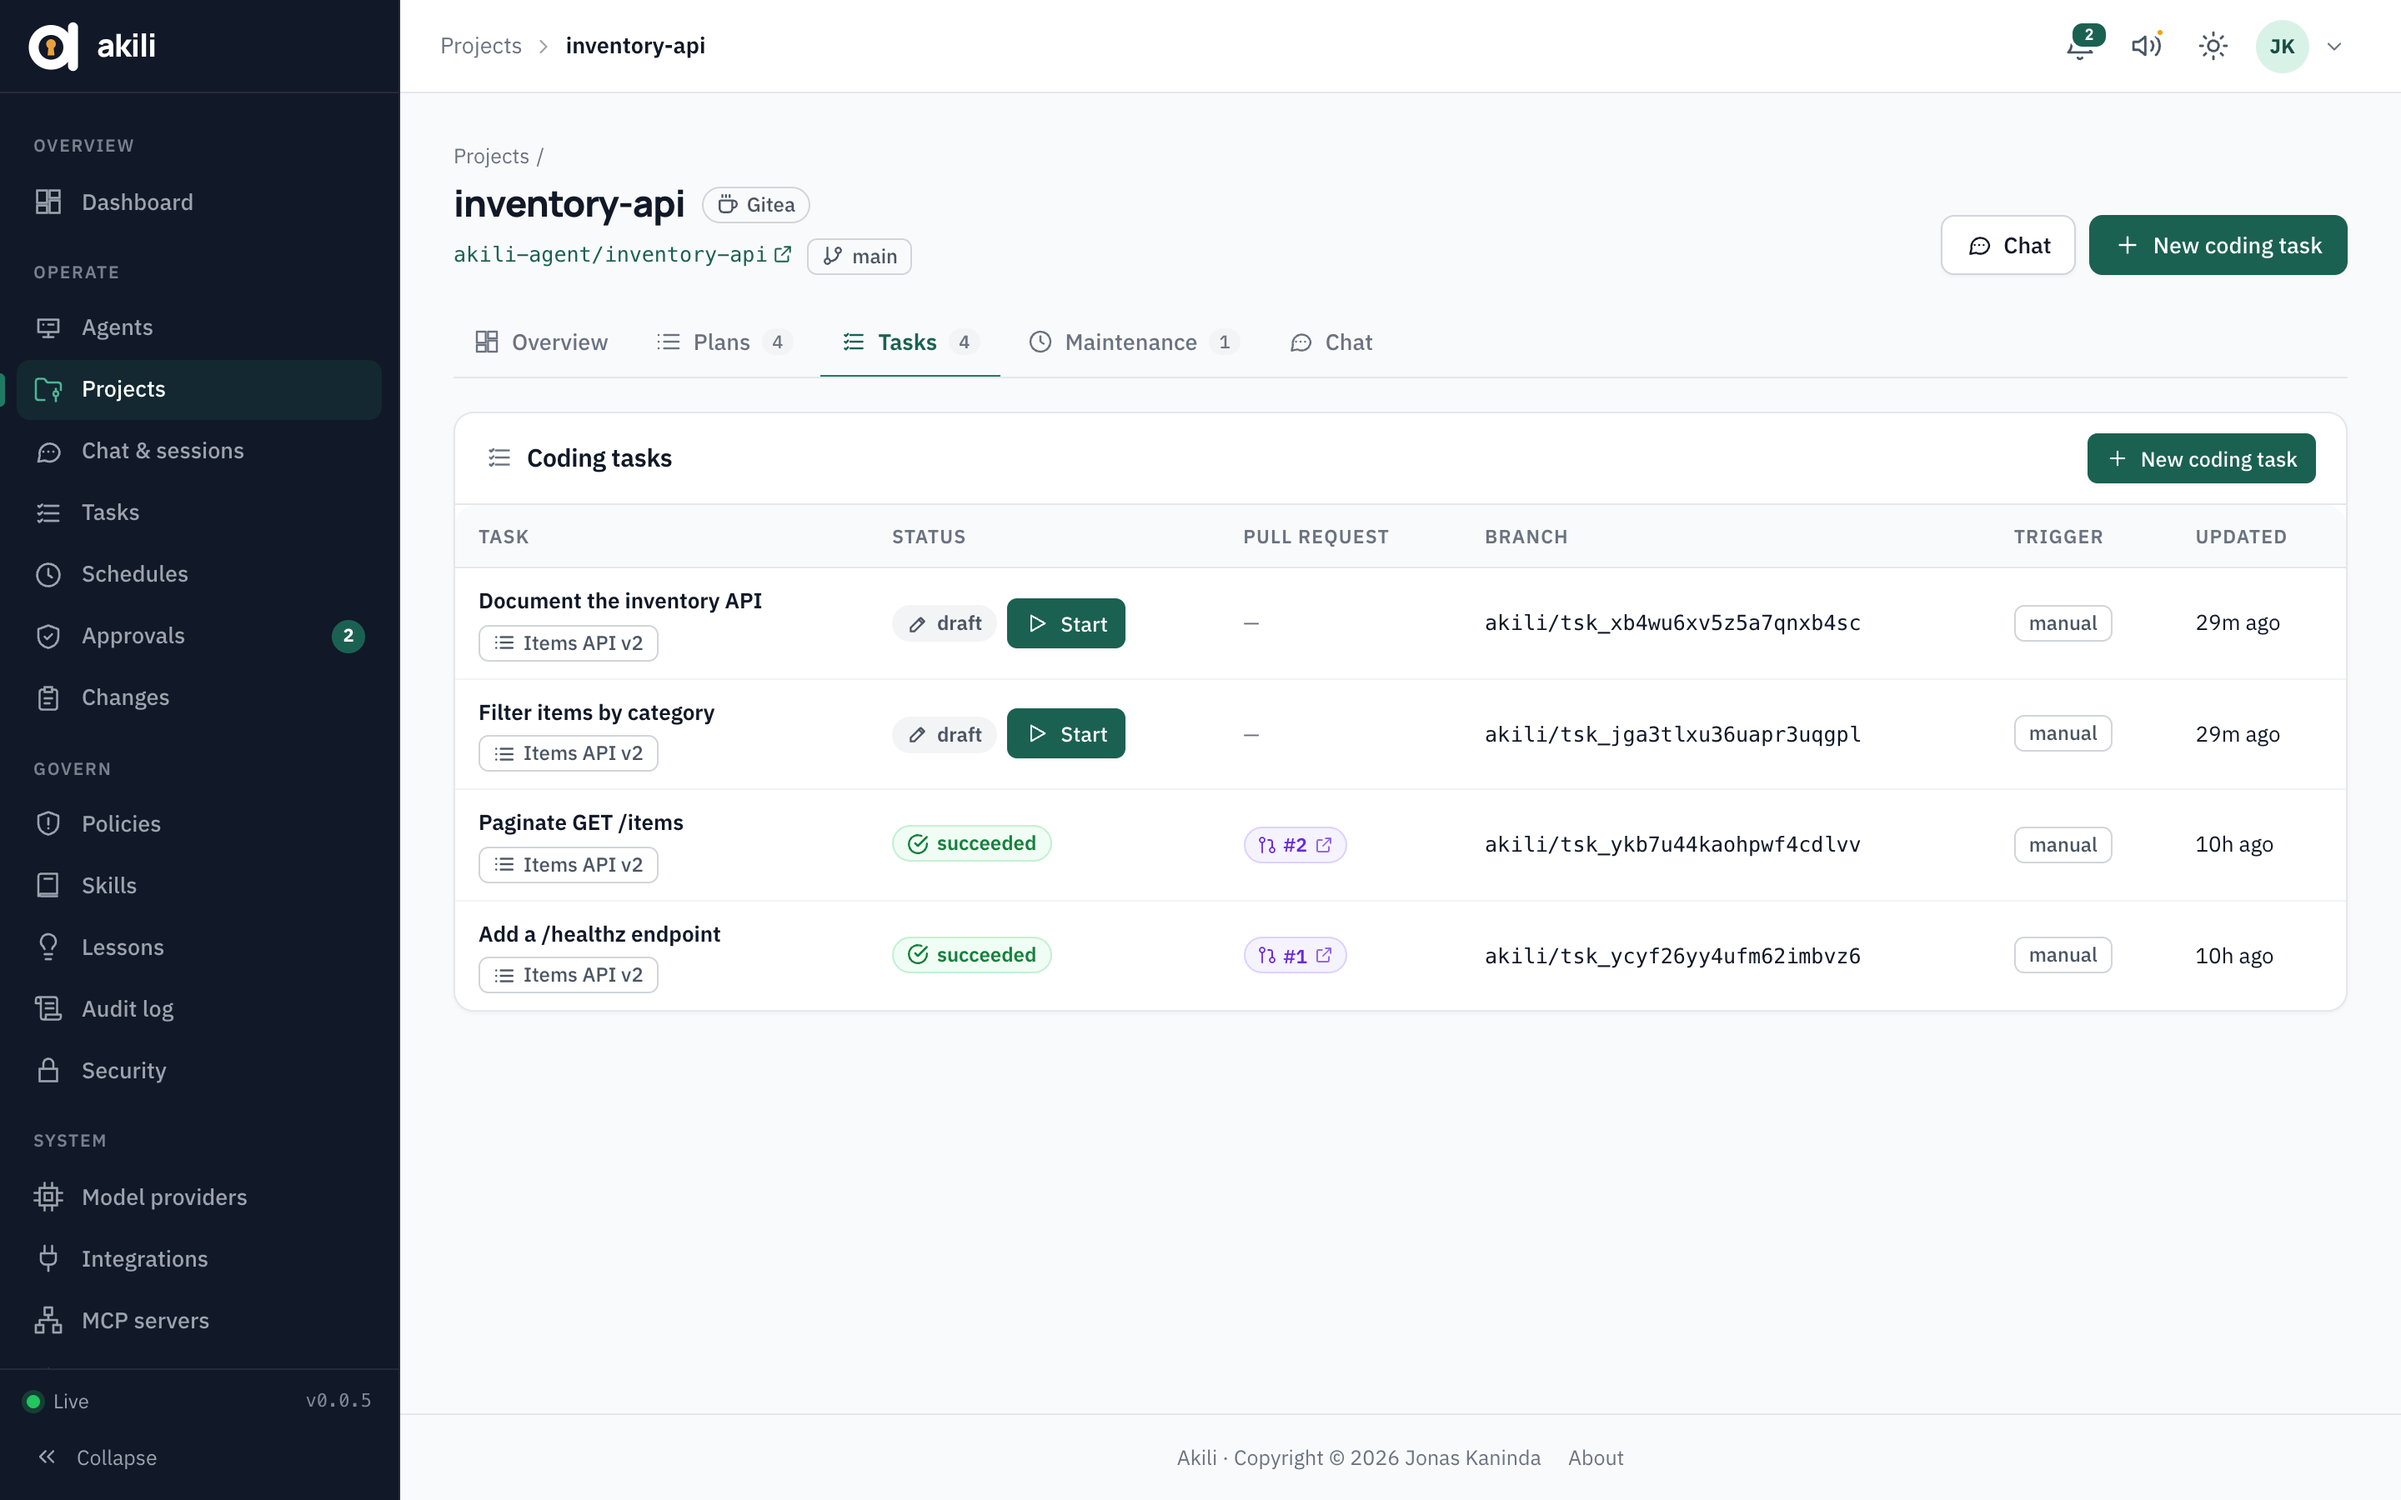
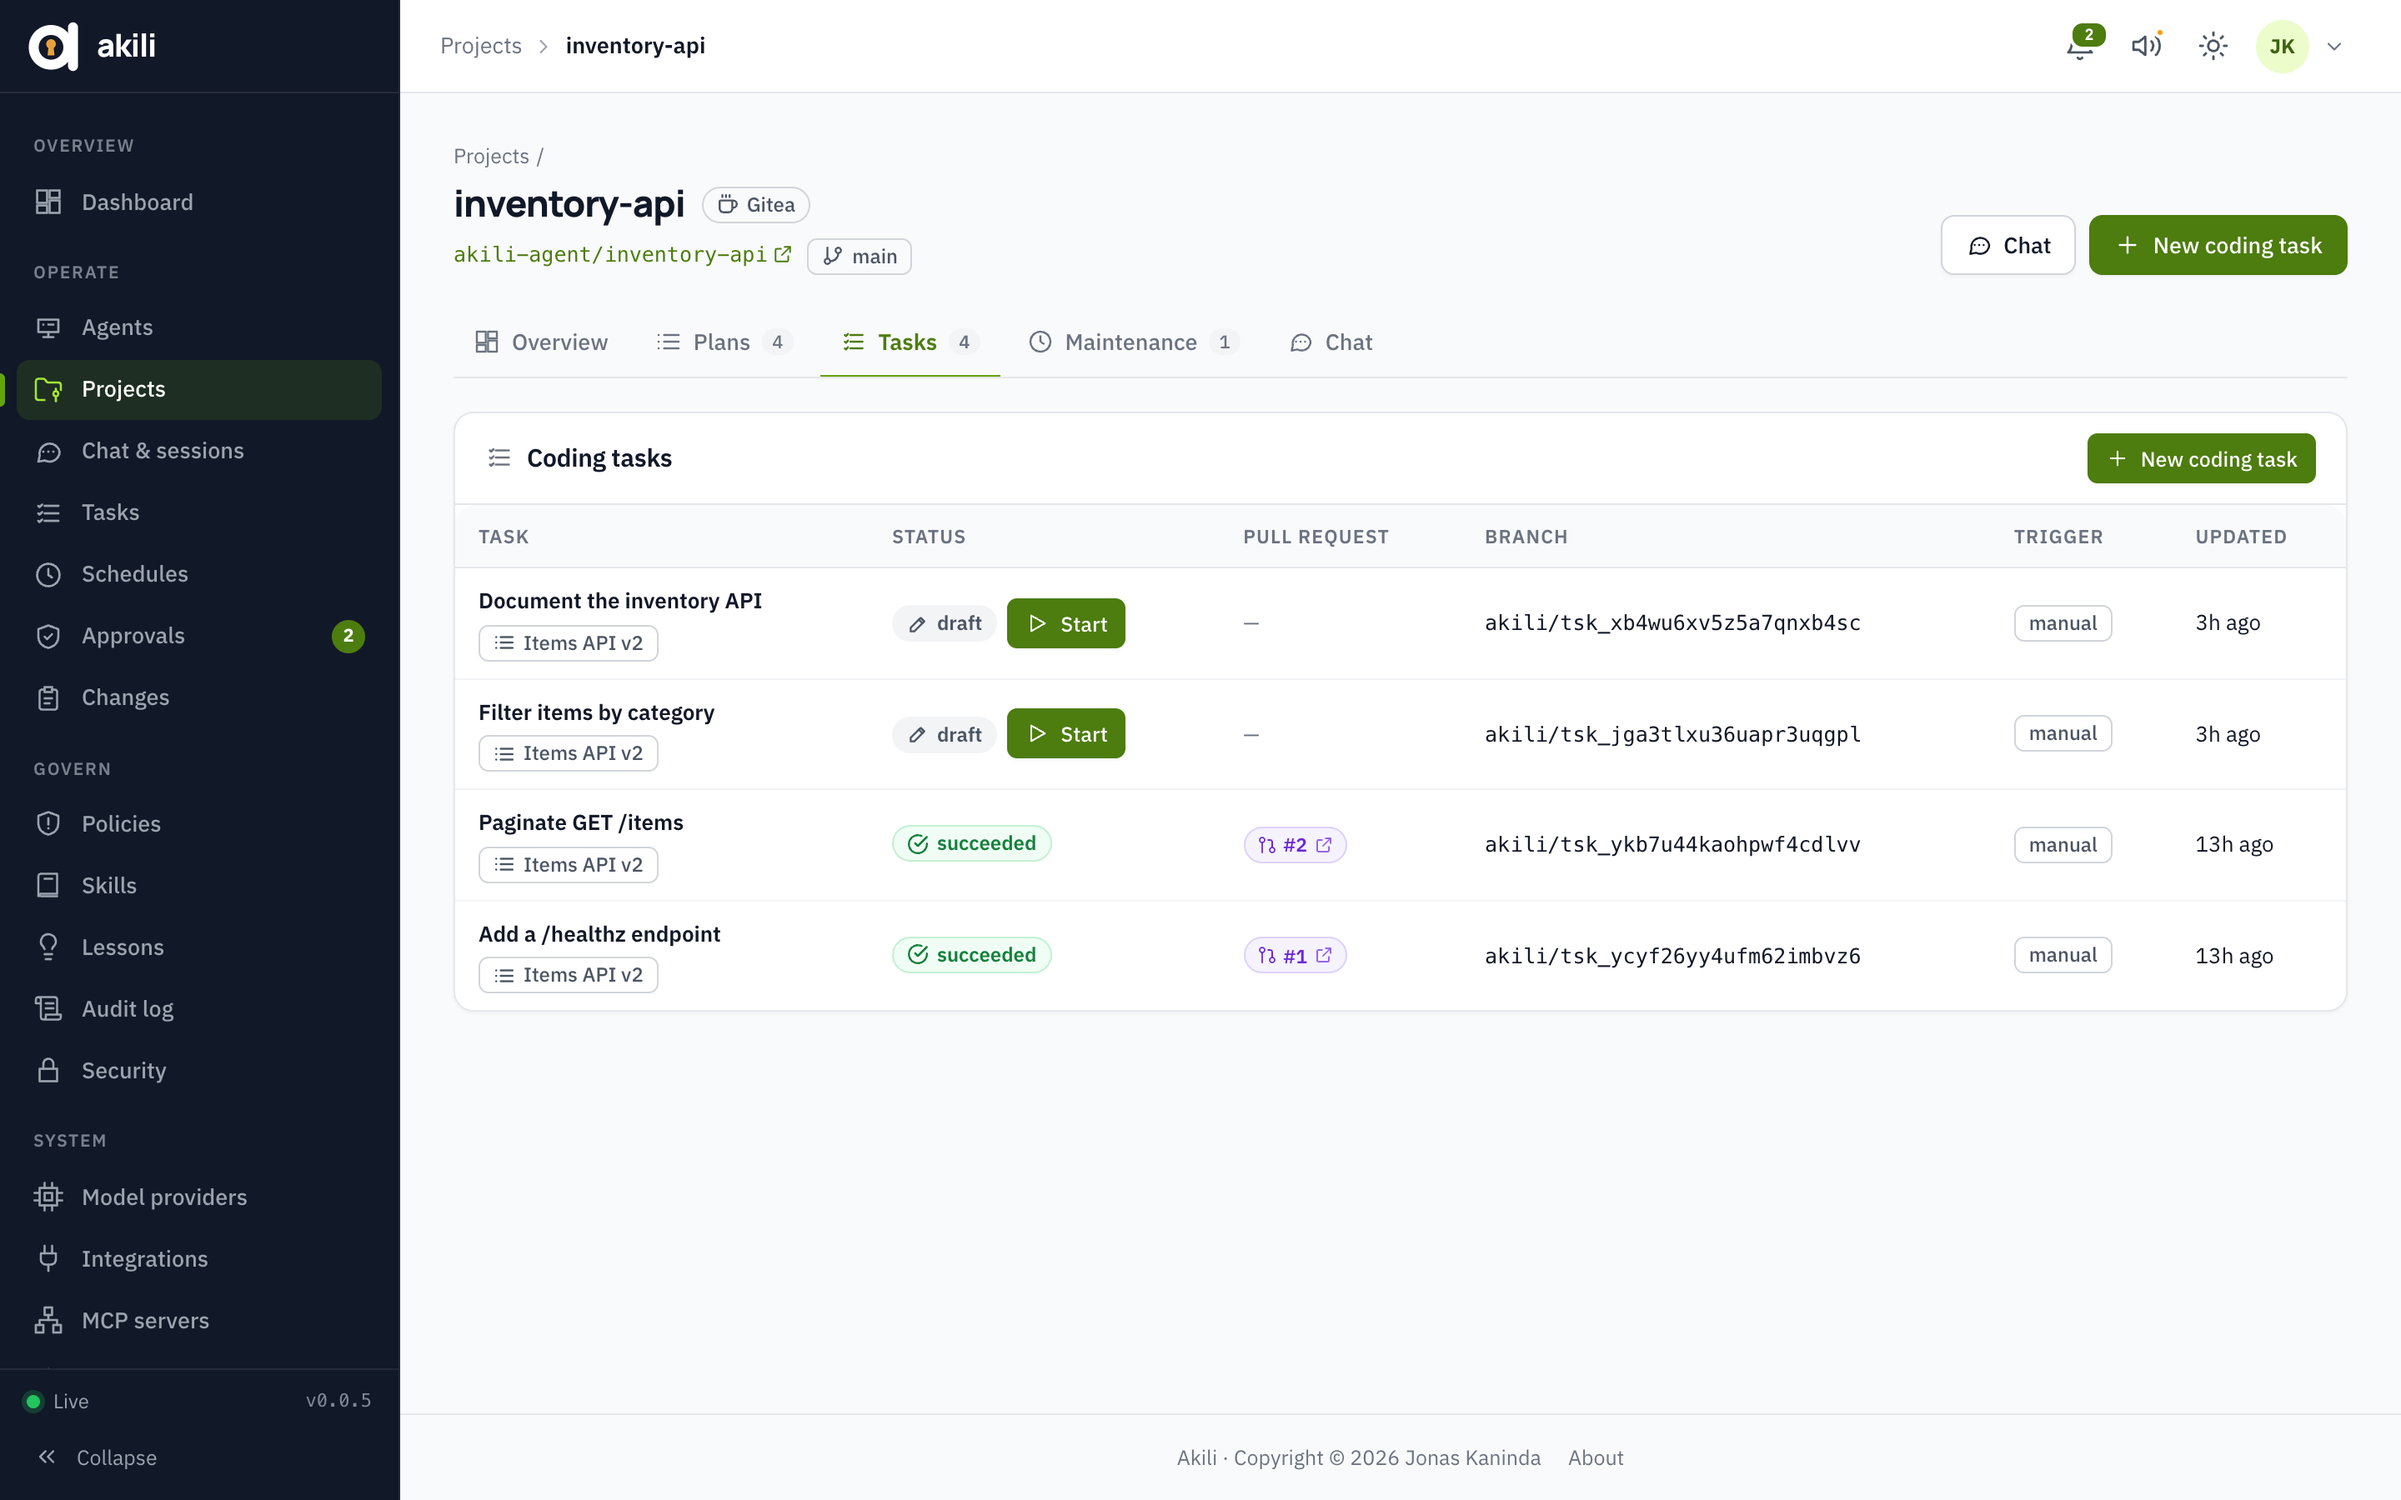
feat(web): use Lime as the primary colour (#16)
* feat(web): use Lime as the primary colour

diff --git a/web/src/styles.css b/web/src/styles.css
@@ -1,18 +1,14 @@
-/* Akili console. Miabi design tokens with the brand's forest green as primary; light / dark via
-   [data-theme] on <html>. */
-
 :root {
-  /* primary: forest, ending at the logo's #0F2A24 (500+ dark enough that white text on 500/600 reads) */
-  --primary-50: #effaf5;
-  --primary-100: #d9f2e7;
-  --primary-200: #b5e4d2;
-  --primary-300: #84cfb6;
-  --primary-400: #51b395;
-  --primary-500: #207a63;
-  --primary-600: #1b6152;
-  --primary-700: #184e43;
-  --primary-800: #15403a;
-  --primary-900: #0f2a24;
+  --primary-50: #f7fee7;
+  --primary-100: #ecfccb;
+  --primary-200: #d9f99d;
+  --primary-300: #bef264;
+  --primary-400: #a3e635;
+  --primary-500: #65a30d;
+  --primary-600: #4d7c0f;
+  --primary-700: #3f6212;
+  --primary-800: #365314;
+  --primary-900: #1a2e05;
 
   --success-50: #f0fdf4;
   --success-500: #22c55e;
@@ -89,7 +85,7 @@
 }
 
 [data-theme='dark'] {
-  --primary-50: #10302a;
+  --primary-50: #17250a;
   --success-50: #0d2818;
   --warning-50: #2d1f0a;
   --danger-50: #2d0f0f;

diff --git a/web/src/lib/xterm.ts b/web/src/lib/xterm.ts
@@ -34,9 +34,9 @@ const DARK: ITheme = {
 const LIGHT: ITheme = {
   background: '#ffffff',
   foreground: '#111827',
-  cursor: '#1b6152',
+  cursor: '#4d7c0f',
   cursorAccent: '#ffffff',
-  selectionBackground: 'rgba(32, 122, 99, 0.22)',
+  selectionBackground: 'rgba(101, 163, 13, 0.22)',
   black: '#111827',
   red: '#b91c1c',
   green: '#15803d',

diff --git a/web/src/components/ProjectPlansTab.vue b/web/src/components/ProjectPlansTab.vue
@@ -524,6 +524,7 @@ async function remove() {
 }
 .plan-check {
   margin-top: 3px;
+  accent-color: var(--primary-600);
 }
 .plan-phase-body {
   flex: 1;

diff --git a/server/internal/notify/mail.go b/server/internal/notify/mail.go
@@ -267,7 +267,7 @@ var htmlTmpl = template.Must(template.New("mail").Parse(`<!doctype html>
 <table role="presentation" style="border-collapse:collapse;font-size:14px;margin-bottom:20px">
 {{range .Rows}}<tr><td style="padding:4px 16px 4px 0;color:#71717a">{{index . 0}}</td><td style="padding:4px 0">{{index . 1}}</td></tr>
 {{end}}</table>
-<a href="{{.URL}}" style="display:inline-block;background:#c2410c;color:#fff;text-decoration:none;padding:9px 16px;border-radius:6px;font-size:14px">{{.Action}}</a>
+<a href="{{.URL}}" style="display:inline-block;background:#4d7c0f;color:#fff;text-decoration:none;padding:9px 16px;border-radius:6px;font-size:14px">{{.Action}}</a>
 <p style="margin:20px 0 0;font-size:12px;color:#71717a">Details stay in Akili; open the link to see them. Change which email you get in your notification settings.</p>
 </td></tr></table>
 </body></html>`))
